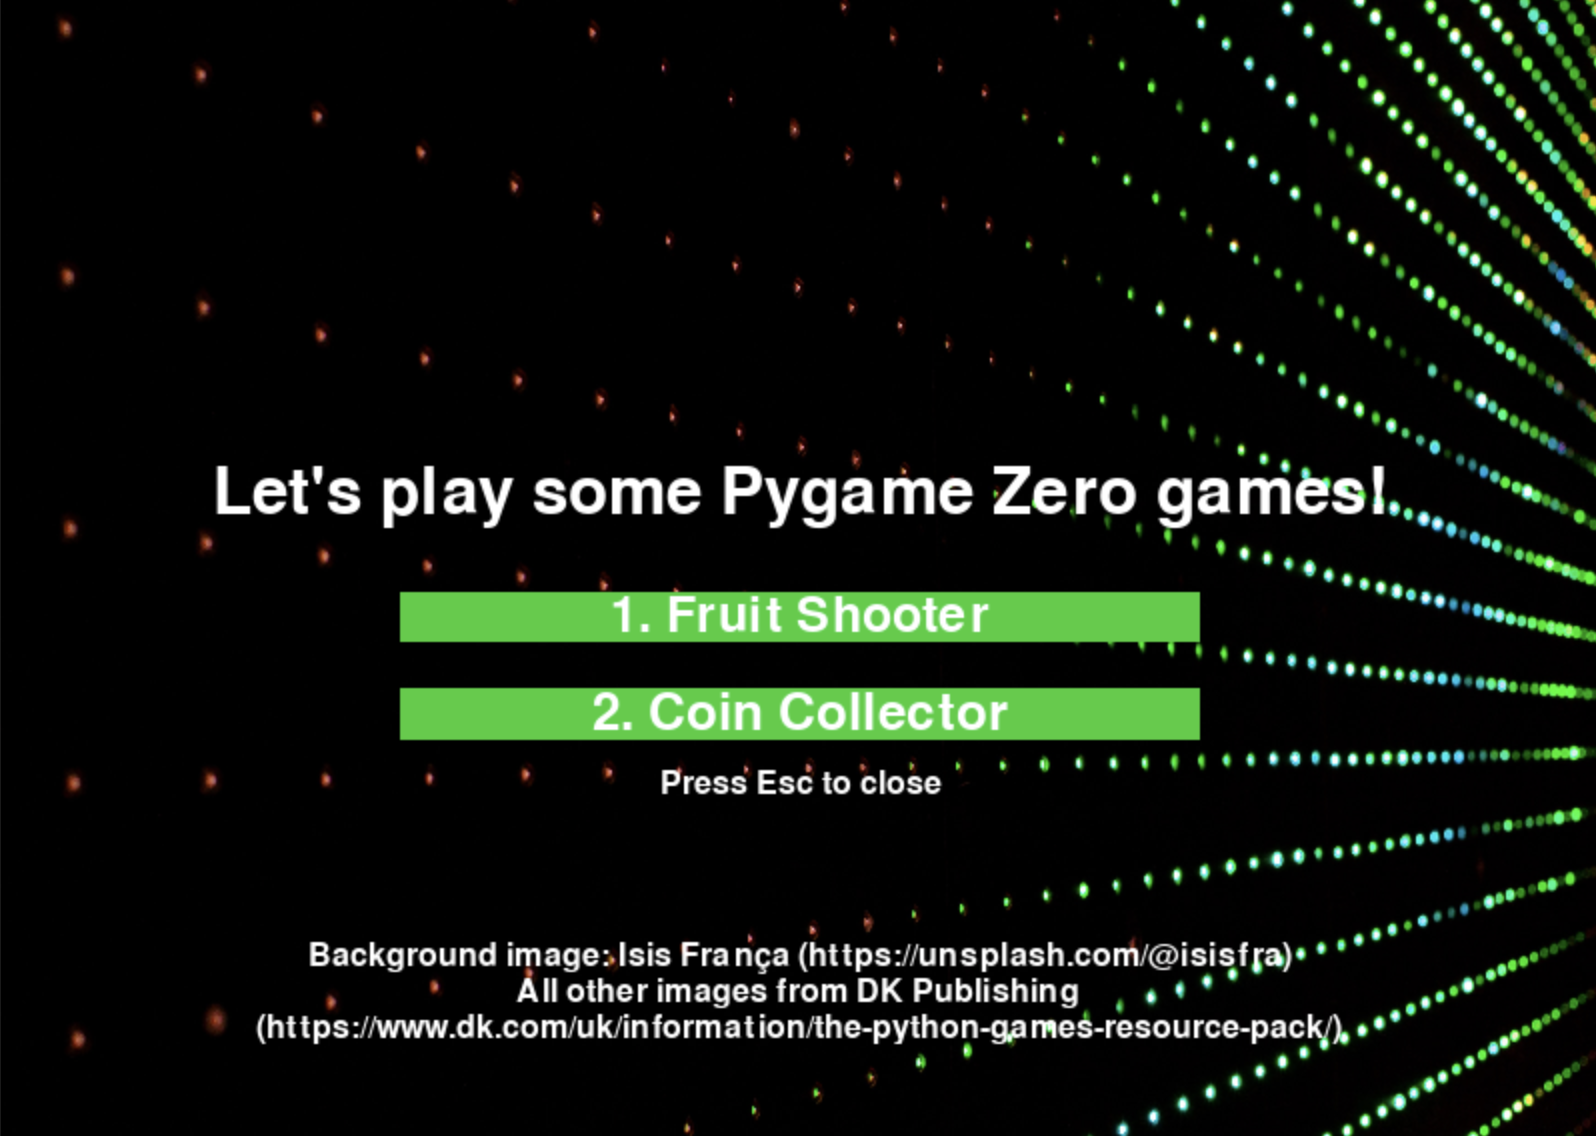
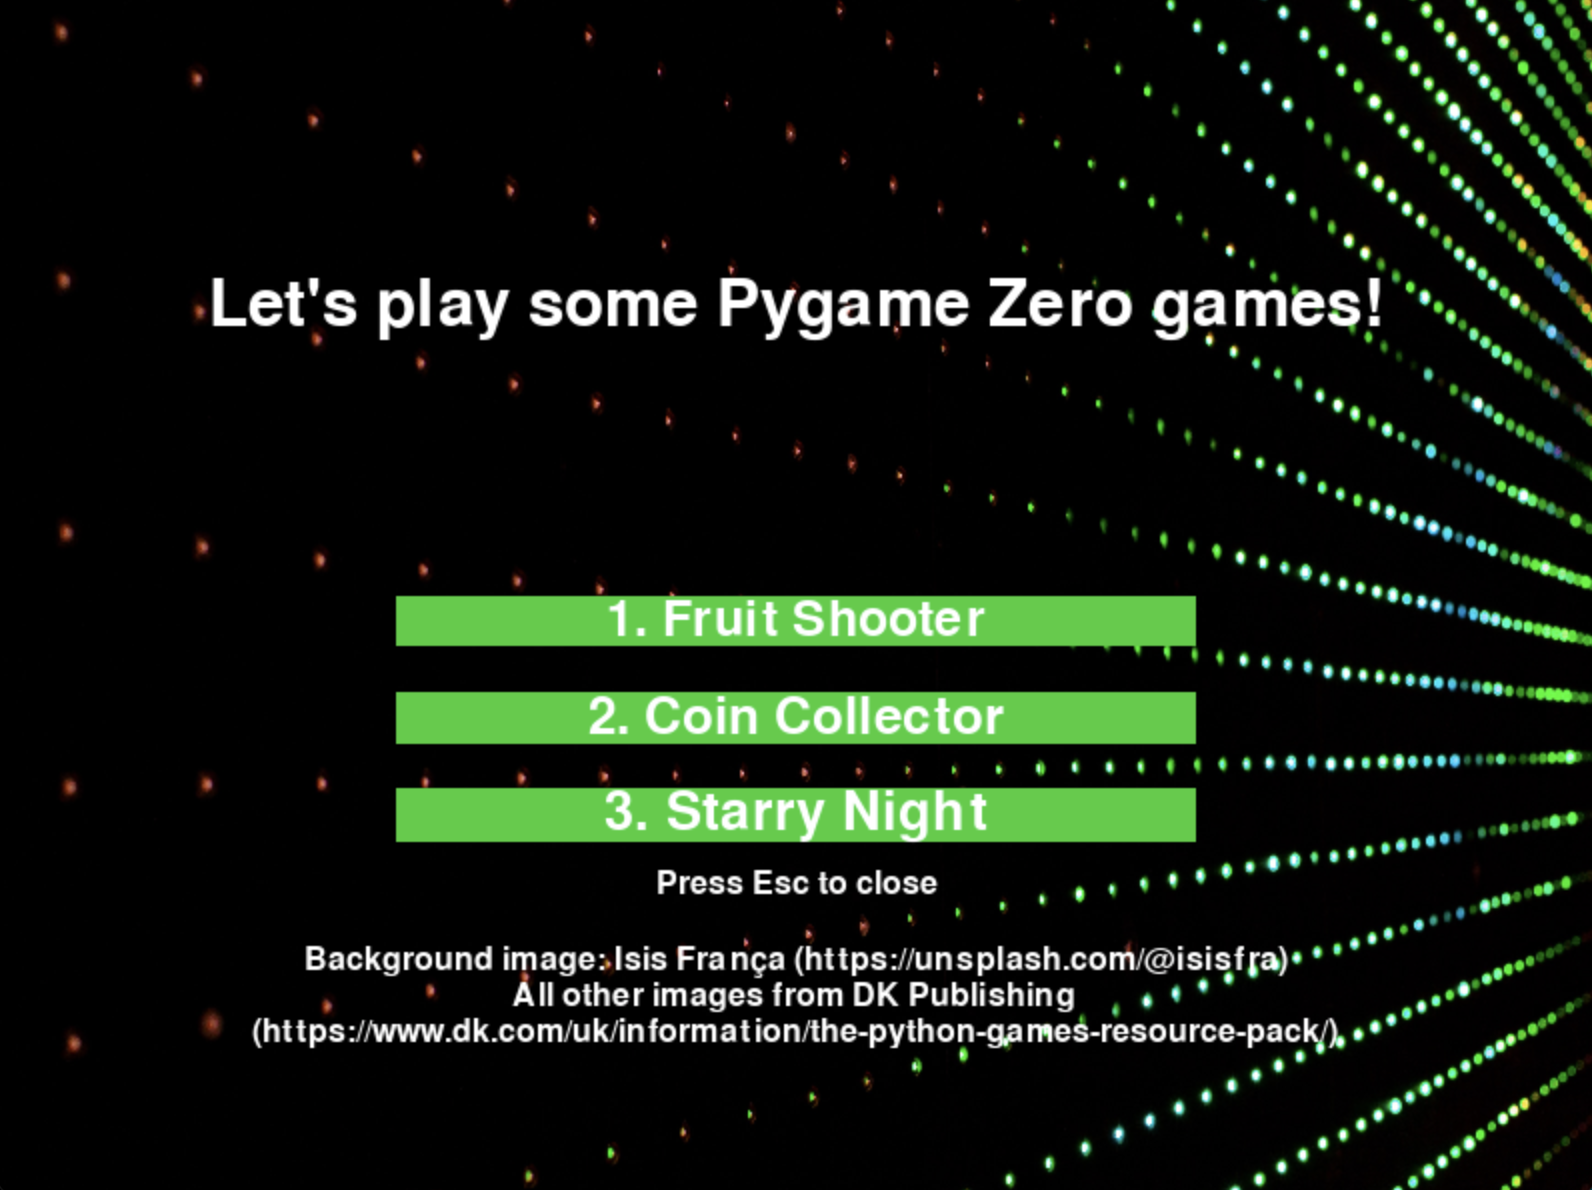
Add Starry Night game

diff --git a/starrynight.py b/starrynight.py
@@ -1,0 +1,141 @@
+import random
+from pgzero.builtins import animate
+
+# Pygame named colors: https://www.pygame.org/docs/ref/color_list.html
+FONT_COLOR = (255, 255, 255)
+WIDTH = 800
+HEIGHT = 600
+CENTER_X = WIDTH / 2
+CENTER_Y = HEIGHT / 2
+CENTER = (CENTER_X, CENTER_Y)
+FINAL_LEVEL = WIDTH / 100
+START_SPEED = FINAL_LEVEL + 1
+# these need to match the image names
+COLORS = ["green", "blue", "yellow"]
+
+game_over = True
+game_complete = True
+current_level = 1
+stars = []
+animations = []
+
+def draw():
+    global stars, current_level, game_over, game_complete
+    screen.clear()
+    screen.blit("space", (0,0))
+    screen.draw.text(f'Catch the RED star!\nPress Esc to exit',
+                         topleft=(10, 10))
+    if game_over:
+        display_message("GAME OVER", "Try again")
+    elif game_complete:
+        display_message("YOU WON!", "Well done")
+    
+    else:
+        for star in stars:
+            star.draw()
+
+def display_message(heading_text, sub_heading_text):
+    screen.draw.text(heading_text,
+                     fontsize=60,
+                     center=CENTER,
+                     color=FONT_COLOR)
+    screen.draw.text(sub_heading_text,
+                     fontsize=30,
+                     center=(CENTER_X, CENTER_Y + 30),
+                     color=FONT_COLOR)
+
+def update():
+    global stars
+    if len(stars) == 0:
+        stars = make_stars(current_level)
+
+def make_stars(star_count):
+    colors = get_colors(star_count)
+    new_stars = make_star_objects(colors)
+    layout_stars(new_stars)
+    animate_stars(new_stars)
+    return new_stars
+
+def get_colors(star_count):
+    colors_to_create = ["red"]
+    for i in range(0, star_count):
+        random_color = random.choice(COLORS)
+        colors_to_create.append(random_color)
+    return colors_to_create
+
+def make_star_objects(colors):
+    new_stars = []
+    for color in colors:
+        star = Actor(color + "-star")
+        new_stars.append(star)
+    return new_stars
+
+def layout_stars(star_objects):
+    star_gaps = len(star_objects) + 1
+    gap_size = WIDTH / star_gaps
+    random.shuffle(star_objects)
+    for index, star in enumerate(star_objects):
+        new_x_pos = (index + 1) * gap_size
+        star.x = new_x_pos
+
+def animate_stars(star_objects):
+    for star in star_objects:
+        duration = (START_SPEED - current_level) / 2
+        star.anchor = ("center", "bottom")
+        # animate is from Pygame Zero
+        animation = animate(star,
+                            tween="linear",
+                            duration=duration,
+                            on_finished=handle_game_over,
+                            y=HEIGHT)
+        animations.append(animation)
+
+def handle_game_over():
+    global game_over
+    game_over = True
+
+def on_key_down(key):
+    if keys.ESCAPE == key:
+        exit()
+
+def on_mouse_down(pos):
+    global stars, current_level
+    for star in stars:
+        if star.collidepoint(pos):
+            if "red" in star.image:
+                red_star_click()
+            else:
+                handle_game_over()
+
+def red_star_click():
+    global current_level, stars, animations, game_complete
+    stop_animations(animations)
+    if current_level == FINAL_LEVEL:
+        game_complete = True
+    else:
+        current_level = current_level + 1
+        stars = []
+        animations = []
+
+def stop_animations(animations):
+    for a in animations:
+        if a.running:
+            a.stop()
+
+def setup(pgzero_objects, _modeFunc):
+    g = globals()
+    g |= pgzero_objects
+    global modeFunc
+    modeFunc = _modeFunc
+
+def restart():
+    global game_over, game_complete, current_level, stars, animations
+    game_over = False
+    game_complete = False
+    current_level = 1
+    stars = []
+    animations = []
+
+def unschedule():
+    global animations
+    stop_animations(animations)

diff --git a/fruitshooter.py b/fruitshooter.py
@@ -6,39 +6,36 @@ from pygame import Rect
 fruitActors = [Actor("apple"), Actor("orange"), Actor("pineapple")]
 currentFruit = random.choice(fruitActors)
 textBox = Rect((20, 20), (100, 100))
-clicked = False
 score = 0
+result = ""
 
 # draw is from Pgzero
 def draw():
+    centerWidth = screen.surface.get_width()
+    centerHeight = screen.surface.get_height()
     screen.fill("black")
     screen.draw.text("Click the fruit to shoot\nScore: " +
                      str(score) +
                      "\nPress Esc to end game", topleft=(0,0), color="white")
+    if result == "hit":
+        screen.draw.textbox("Good shot!", textBox, center=(centerWidth/2, centerHeight/2), color="green")
+    elif result == "miss":
+        screen.draw.textbox("Try again", textBox, center=(centerWidth/2, centerHeight/2), color="orange")
     currentFruit.draw()
 
 def place_fruit():
-    global currentFruit, clicked
+    global currentFruit
     currentFruit = random.choice(fruitActors)
     currentFruit.x = random.randint(20, 780)
     currentFruit.y = random.randint(20, 580)
-    clicked = False
     
-
 # on_mouse_down is from Pgzero
 def on_mouse_down(pos):
-    global clicked, score
-    centerWidth = screen.surface.get_width()
-    centerHeight = screen.surface.get_height()
+    global result, score
+    result = "miss"
     if currentFruit.collidepoint(pos):
-        clicked = True
+        result = "hit"
         score += 1
-    screen.clear()
-    if clicked:
-        screen.draw.textbox("Good shot!", textBox, center=(centerWidth/2, centerHeight/2), color="green")
-    else:
-        screen.draw.textbox("Try again", textBox, center=(centerWidth/2, centerHeight/2), color="orange")
-    clock.schedule_unique(screen.clear, 1)
     place_fruit()
 
 def update():
@@ -48,8 +45,9 @@ def unschedule():
     pass
 
 def restart():
-    global score
+    global score, result
     score = 0
+    result = ""
     place_fruit()
 
 def setup(pgzero_objects, _modeFunc):

diff --git a/menu.py b/menu.py
@@ -1,8 +1,8 @@
 import re, os
 from pygame import image, transform, Color, Rect, Surface
-import fruitshooter, coincollector
+import fruitshooter, coincollector, starrynight
 
-GAMES = ["Fruit Shooter", "Coin Collector"]
+GAMES = ["Fruit Shooter", "Coin Collector", "Starry Night"]
 menuRects = []
 backgroundImage = image.load(os.path.abspath("images/background/isis-franca-AuWSzM7kZDA-unsplash.jpg"))
 
@@ -14,7 +14,7 @@ def draw():
     centerWidth = screen.surface.get_width() / 2
     centerHeight = screen.surface.get_height() / 2
     screen.draw.text("Let's play some Pygame Zero games!",
-                     center=(centerWidth,centerHeight - 48),
+                     center=(centerWidth,centerHeight - (48 * len(GAMES))),
                      fontsize=48,
                      color="white")
     for i in range(len(GAMES)):
@@ -41,6 +41,8 @@ def on_mouse_down(pos):
         modeFunc(fruitshooter)
     if menuRects[1].collidepoint(pos):
         modeFunc(coincollector)
+    if menuRects[2].collidepoint(pos):
+        modeFunc(starrynight)
 
 def update():
     pass

diff --git a/main.py b/main.py
@@ -1,5 +1,5 @@
 import pgzrun
-import menu, fruitshooter, coincollector
+import menu, fruitshooter, coincollector, starrynight
 
 mode = menu
 startup = True
@@ -25,6 +25,7 @@ def update():
         menu.setup(pgzero_objects, setMode)
         fruitshooter.setup(pgzero_objects, setMode)
         coincollector.setup(pgzero_objects, setMode)
+        starrynight.setup(pgzero_objects, setMode)
         startup = False
 
     mode.update()

diff --git a/coincollector.py b/coincollector.py
@@ -1,4 +1,3 @@
-import pgzrun
 from random import randint
 from pgzero.builtins import Actor, keyboard, keys, sounds, clock, music
 
